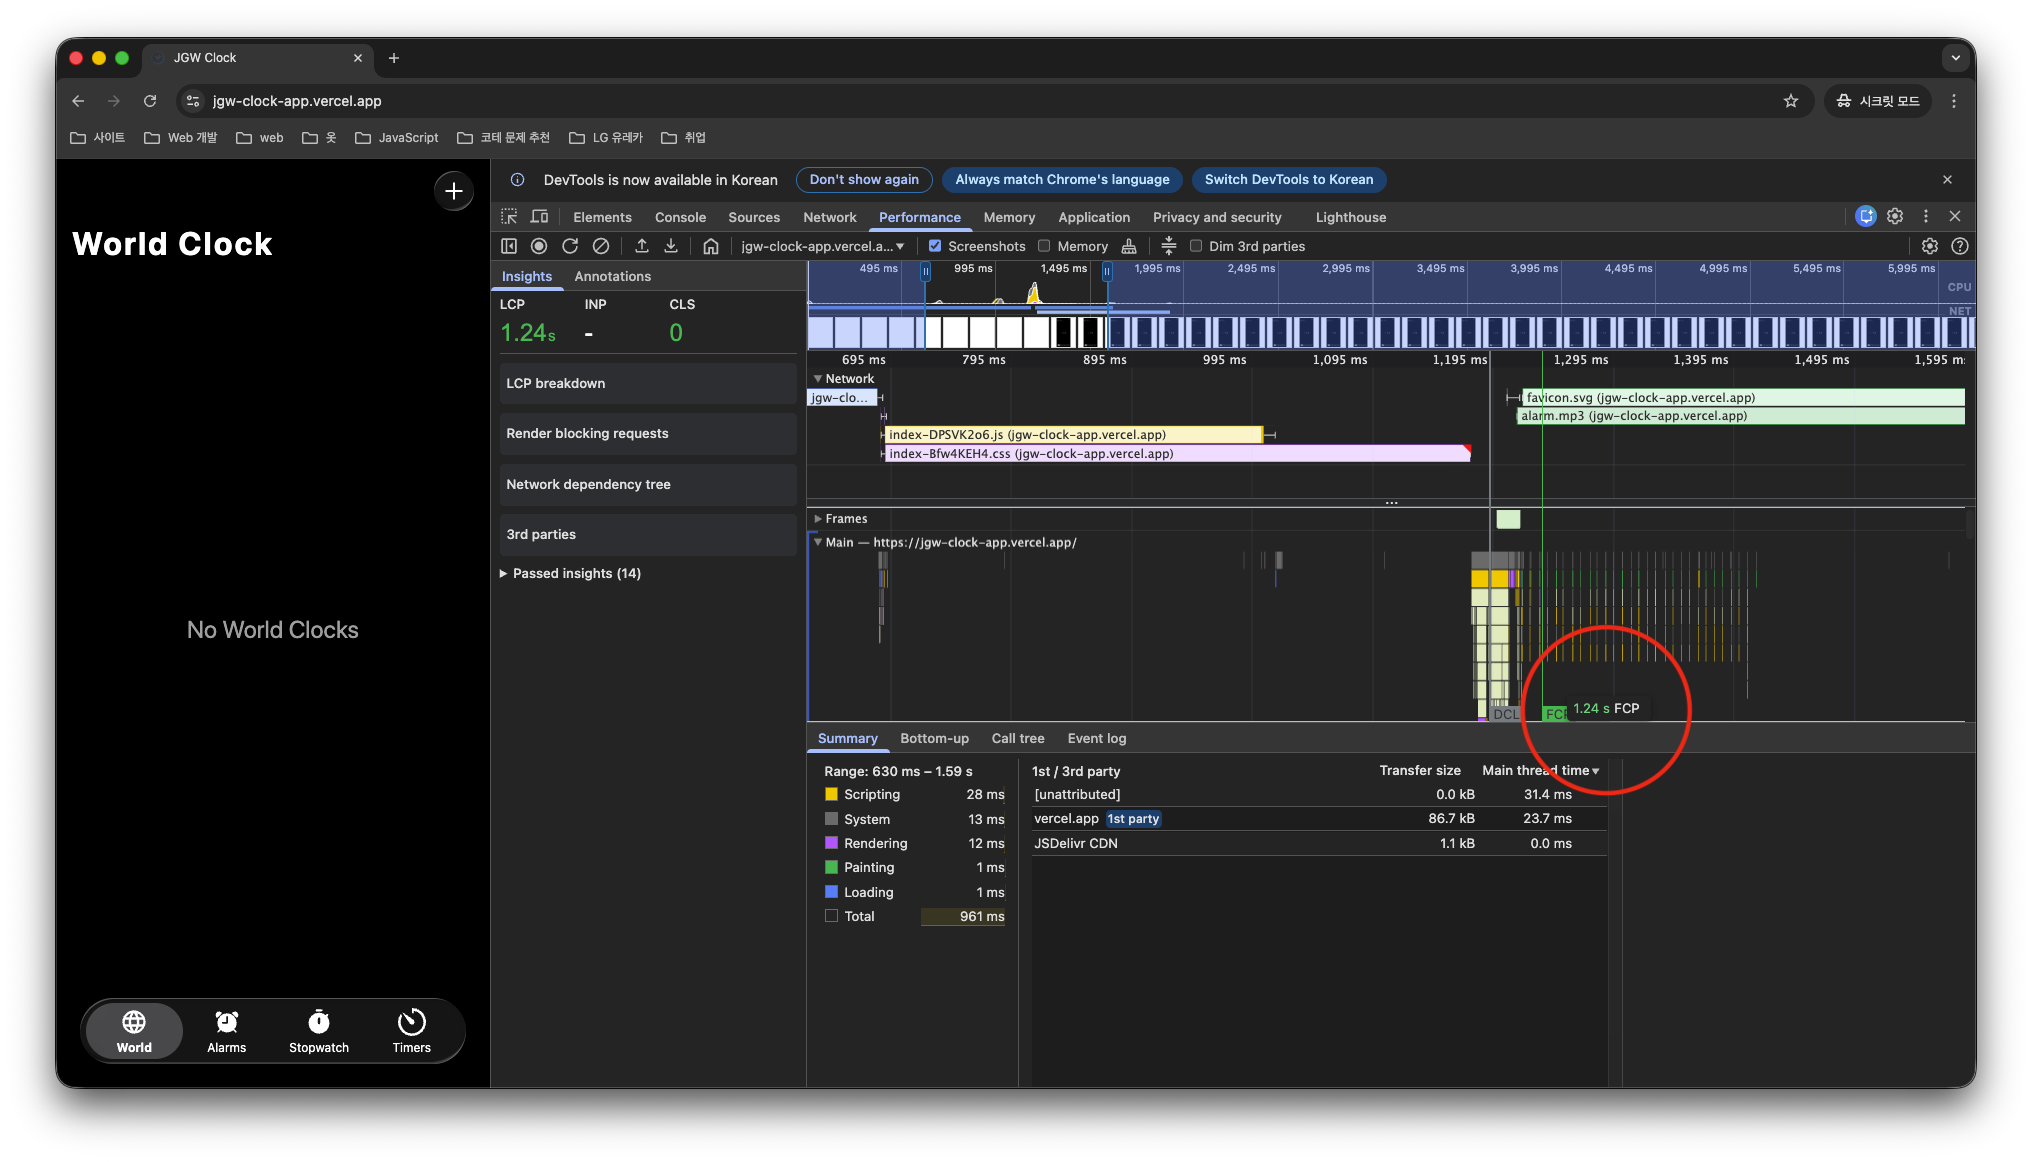
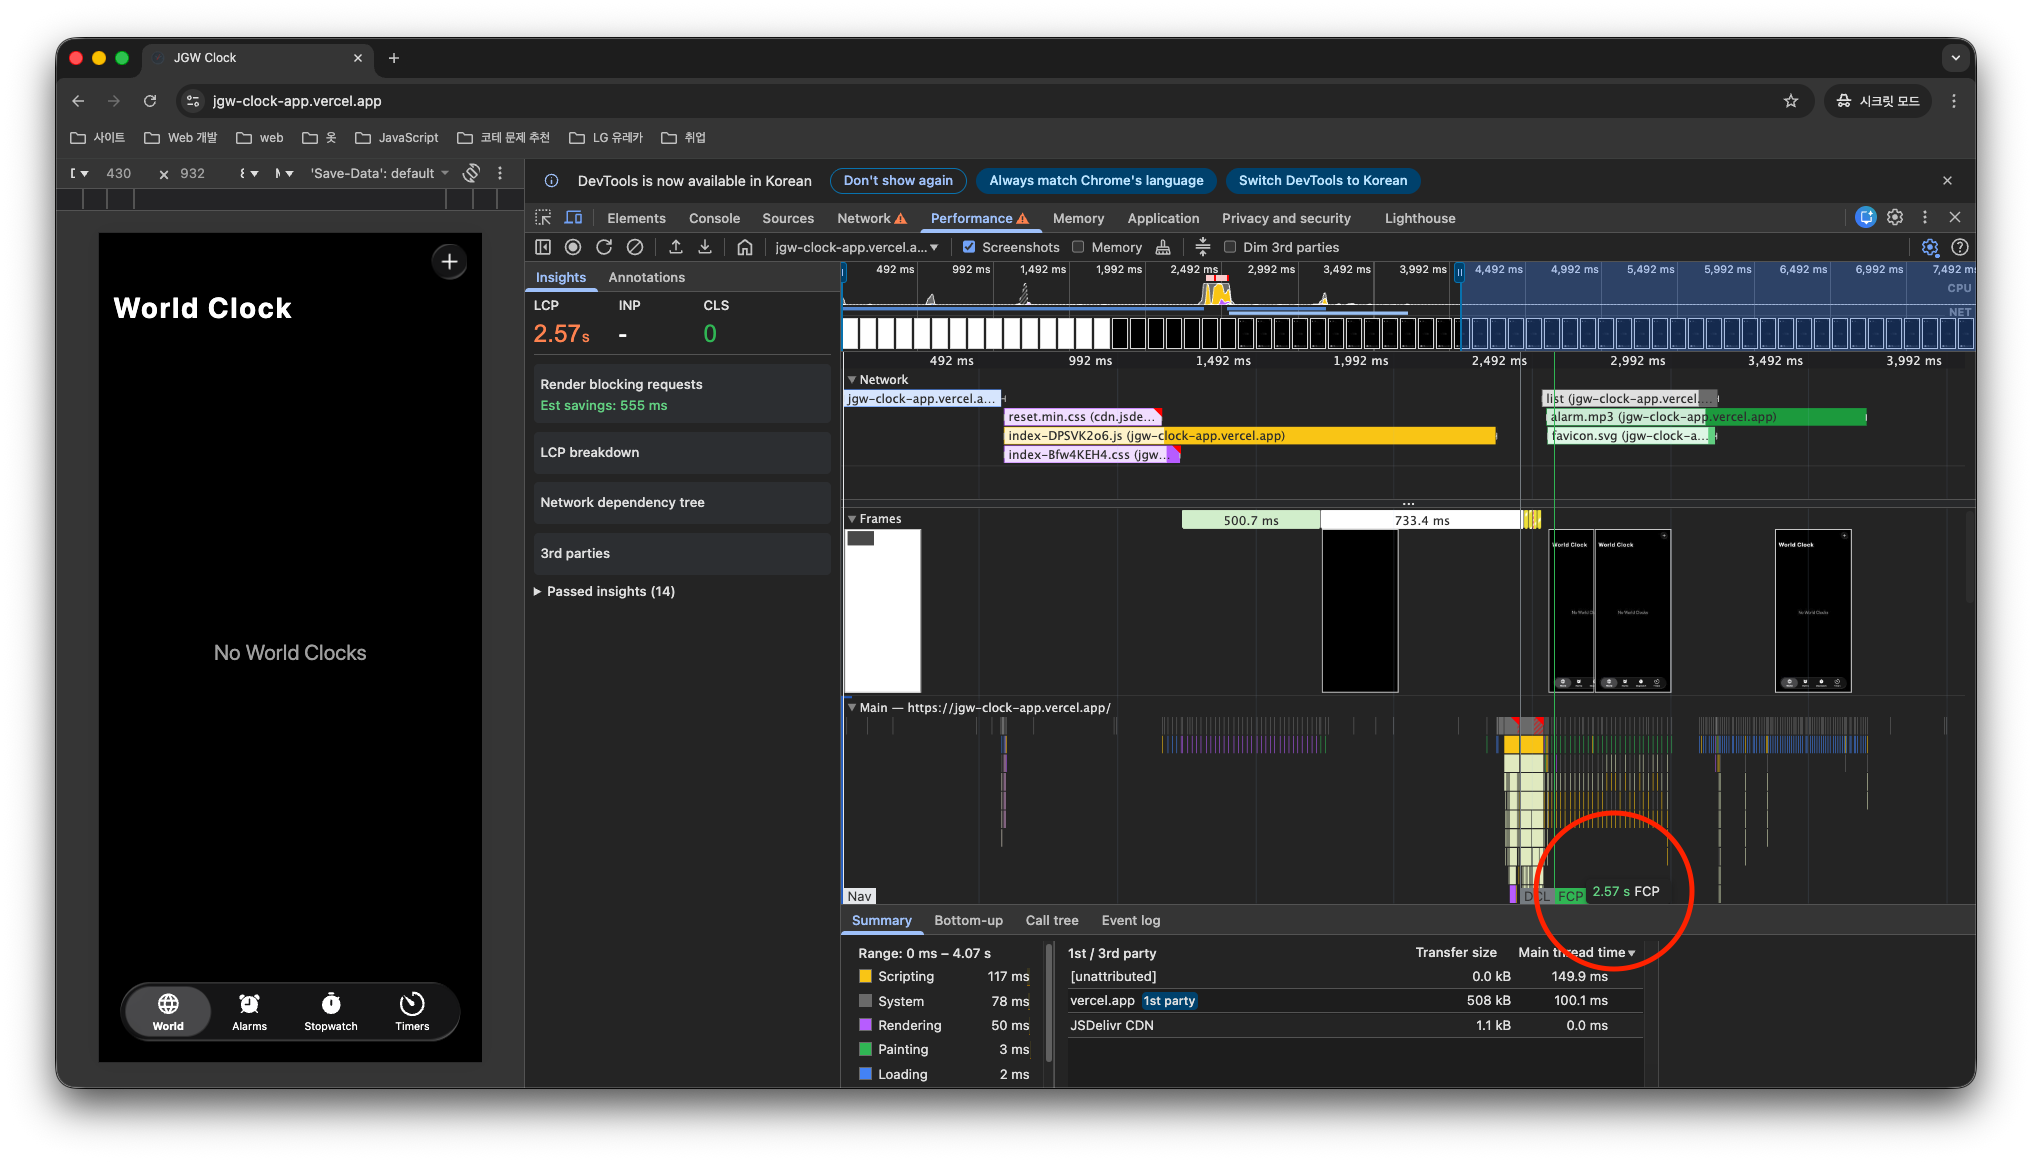
docs: Lighthouse 지표 개선 내용 수정

Changed region(s): [[0.0, 0.1239, 0.9921, 0.9604], [0.4031, 0.4337, 0.6511, 0.9294], [0.093, 0.5267, 0.186, 0.5886]]

diff --git a/docs/google-lighthouse-upgrade.md b/docs/google-lighthouse-upgrade.md
@@ -120,7 +120,7 @@ Node.js의 등장은 프론트엔드 개발 환경에 큰 변화를 가져왔습
 
 <br />
 
-![Clock Lighthouse Performance Summary Result](./images/clock-lighthouse-performance-list-result.png)
+![Clock Lighthouse Performance List Result](./images/clock-lighthouse-performance-list-result.png)
 
 <br />
 
@@ -231,11 +231,13 @@ Lighthouse의 Accessibility 감점 요인 리스트를 살펴보면, **"Buttons 
 
 Performance 요약 결과를 살펴보면 여러 측정 지표 중 **First Contentful Paint만 🟡로 표시**되는 것을 확인할 수 있습니다.
 
-즉, 앞서 확인한 감점 요인 리스트가 100점에서 93점으로 감점된 직접적인 원인이라기보다는, **FCP 시점이 Lighthouse 점수 산정 기준에서 약 50~89점 구간으로 계산**되고 있기 때문에 **감점 요인으로 반영되었음을 의미**합니다. 따라서 **Performance 점수를 93점에서 100점으로 개선하기 위해서**는 **현재 FCP 결과인 2.4s 수치를 일정 수준 단축**할 필요가 있습니다.
+즉, 앞서 확인한 감점 요인 리스트가 100점에서 93점으로 감점된 직접적인 원인이라기보다는, **FCP 시점이 Lighthouse 점수 산정 기준에서 약 50~89점 구간으로 계산**되고 있기 때문에 **감점 요인으로 반영된 것을 의미**합니다. 따라서 **Performance 점수를 93점에서 100점으로 개선하기 위해서**는 **현재 FCP 결과인 2.4s 수치를 일정 수준 단축**할 필요가 있습니다.
 
-다만 감점 요인 리스트의 각 항목 탭을 활성화하여 세부 원인을 확인해보면, **Network dependency tree는 LCP와 Unscored 항목에 해당**하므로 **현재 상황에서 점수 감점의 직접적인 원인으로 보기는 어렵습니다.**
+하지만 감점 요인 리스트의 각 항목 탭을 활성화하여 세부 원인을 확인해보면, **Network dependency tree는 LCP와 Unscored 항목에 해당**하므로 **현재 상황에서 점수 감점의 직접적인 원인으로 보기는 어렵습니다.**
 
 결과적으로 FCP 항목에 영향을 주는 **Render blocking requests** 또는 **Reduce unused JavaScript**가 **직접적인 감점 원인임을 유추**할 수 있었습니다. 따라서 FCP 시점을 개선하기 위해 **개발자 도구 Performance 패널을 활용**하여 **FCP 이전 구간을 측정**해보겠습니다.
+
+다만 **Lighthouse의 경우 디바이스 환경을 모바일로 제한하면 Chrome이 모바일 환경 기준에 맞춰 성능을 측정**하여 전체 보고서를 생성합니다. 반면 Performance 패널은 기본적으로 **디바이스 환경을 고려하지 않기 때문에**, **CPU Throttling을 4x slowdown, Network를 Slow 4G, Disabled cache로 설정**하여 모바일 환경에 맞게 **성능을 저하시킨 뒤 측정을 진행**하겠습니다.
 
 <br />
 
@@ -243,14 +245,14 @@ Performance 요약 결과를 살펴보면 여러 측정 지표 중 **First Conte
 
 <br />
 
-개발자 도구 Performance 패널을 활용하여 FCP 이전 구간을 측정해보면, **Network 항목에서 4건의 요청이 발생**했으며 **약 1.24 시점에 FCP가 측정**된 것을 확인할 수 있습니다.
+개발자 도구 Performance 패널을 활용하여 FCP 이전 구간을 측정해보면, **Network 항목에서 4건의 요청이 발생**했으며 **약 2.57s 시점에 FCP가 측정**된 것을 확인할 수 있습니다.
 
 이 결과만 놓고 보면 **CSS 파일 응답 이후 CSSOM을 구축하는 과정에서 실질적인 렌더링 블로킹이 발생**하고 있다는 점을 직접적인 원인으로 판단할 수도 있고, **FCP 직전 구간에서 다수의 함수 호출이 발생**하고 있기 때문에 해당 구간 역시 주요 원인으로 해석할 수 있습니다.
 
-**개인적으로는 렌더링 흐름에 직접적인 영향을 주는 CSS 렌더링 블로킹 구간**을 **주요 원인**으로 보고 있기 때문에 해당 항목부터 먼저 확인해보겠습니다. 만약 이 구간이 **주요 원인으로 확인될 경우, Reduce unused JavaScript 항목은 본 문서에서 다루지 않을 수도 있습니다.**
+개인적으로는 **FCP 직전 구간에서 다수의 함수 호출이 발생하는 구간을 FCP 지연의 주요 원인**으로 보고 있습니다. 다만 이 경우 **JavaScript 로직을 직접 분석하고 수정 방안을 검토해야 하기 때문에 시간 소요가 클 수 있어**, 우선 **Render blocking requests 항목을 먼저 확인**해보겠습니다.
 
 <br />
 
 ### A. Render blocking requests
 
-개인적으로는 Render blocking requests가 **FCP 측정 시점을 지연시키는 주요 원인**으로 보고 있다고 설명했습니다. 다만, 해당 내용을 작성하기 위해 서론, 본론, 결론에 대한 **내용이 매우 길어질 것 같아 [｢FCP 개선을 위한 CSS 최적화｣](./fcp-css-optimization.md) 문서에서 별도로 다루겠습니다.**
+**"렌더링 흐름을 차단하는 네트워크 자원이 존재한다(Render blocking requests)"** 항목은 **FCP 측정 시점을 지연시키는 주요 원인에 해당**합니다. 해당 내용은 먼저 다루되, **개선 과정이 비교적 길어질 것으로 판단**되어 [**｢FCP 개선을 위한 CSS 최적화｣**](./fcp-css-optimization.md) 문서에서 **별도로 정리**하겠습니다.
